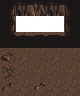
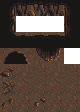
Procedural generation 3

diff --git a/game.js b/game.js
@@ -93,7 +93,29 @@ window.addEventListener("load",function() {
 		wall_down_left: { frames: [10], rate: 1, loop: true},
 		wall_down_right: { frames: [14], rate: 1, loop: true},
 		wall_left: { frames: [5], rate: 1, loop: true},
-		wall_right: { frames: [9], rate: 1, loop: true}
+		wall_right: { frames: [9], rate: 1, loop: true},
+		wall_hole_up_left: { frames: [15], rate: 1, loop: true},
+		wall_hole_up_right: { frames: [16], rate: 1, loop: true},
+		wall_hole_down_left: { frames: [17], rate: 1, loop: true},
+		wall_hole_down_right: { frames: [18], rate: 1, loop: true}
+	});
+
+		Q.animations('cave floor anim', {
+		floor1: { frames: [0], rate: 1, loop: true},
+		floor2: { frames: [1], rate: 1, loop: true},
+		floor3: { frames: [2], rate: 1, loop: true},
+		floor4: { frames: [3], rate: 1, loop: true},
+		floor5: { frames: [4], rate: 1, loop: true},
+		floor6: { frames: [5], rate: 1, loop: true},
+		floor7: { frames: [6], rate: 1, loop: true},
+		floor8: { frames: [7], rate: 1, loop: true},
+		floor9: { frames: [8], rate: 1, loop: true},
+		floor10: { frames: [9], rate: 1, loop: true},
+		floor11: { frames: [10], rate: 1, loop: true},
+		floor12: { frames: [11], rate: 1, loop: true},
+		floor13: { frames: [12], rate: 1, loop: true},
+		floor14: { frames: [13], rate: 1, loop: true},
+		floor15: { frames: [14], rate: 1, loop: true},
 	});
 
 	Q.animations('octorok anim', {
@@ -788,14 +810,35 @@ window.addEventListener("load",function() {
 		init: function(p) {
 			// You can call the parent's constructor with this._super(..)
 			this._super(p, {
-				sheet: "walls"
+				sheet: "walls",
+				sprite: "cave walls anim",
+				dir: ""
 			});
 
 			//this.add('2d, animation');
-			//this.add('animation');
-			//this.play("wall_up1");
+			this.add('animation');
+			this.play("wall_" + this.p.dir);
 
 			//this.on("hit",this,"collision");
+		}
+	});
+
+	Q.Sprite.extend("CaveFloor",{
+
+		// the init constructor is called on creation
+		init: function(p) {
+			// You can call the parent's constructor with this._super(..)
+			this._super(p, {
+				sheet: "floor",
+				sprite: "cave floor anim",
+				sensor: true,
+				collisionMask: Q.SPRITE_NONE,
+				type: Q.SPRITE_NONE
+			});
+
+			//this.add('2d, animation');
+			this.add('animation');
+			this.play("floor" + Math.floor((Math.random() * 15) + 1));
 		}
 	});
 
@@ -846,8 +889,10 @@ window.addEventListener("load",function() {
 
 	Q.scene("level2",function(stage) {
 		Q.stageTMX("level2.tmx",stage);
+		//Q.stageTMX("level3.tmx",stage);
 
-		var w = 40, h = 40;	//var w = 80, h = 40;
+		var w = 40, h = 40;
+		var wallScale = 2;
 		/* create a connected map where the player can reach all non-wall sections */
 		var map = new ROT.Map.Cellular(w, h, { connected: true });
 
@@ -867,8 +912,44 @@ window.addEventListener("load",function() {
 
 		for(var i = 0; i < map._map.length; i++) {
 			for(var j = 0; j < map._map[i].length; j++) {
+				var maxI = map._map.length-1;
 				if(map._map[i][j] == 0){	//its a wall
-					stage.insert(new Q.CaveWall({x: 16*i, y: 16*j}));
+					var maxJ = map._map[i].length-1;
+					var wallDir;
+					var isWall = true;
+
+					if(i!=0 && j!=0 && map._map[i][j-1]==1 && map._map[i-1][j]==1)
+						wallDir = "hole_up_left";
+					else if(i!=maxI && j!=maxJ && map._map[i][j+1]==1 && map._map[i+1][j]==1)
+						wallDir = "hole_down_right";
+					else if(i!=0 && j!=maxJ && map._map[i][j+1]==1 && map._map[i-1][j]==1)
+						wallDir = "hole_down_left";
+					else if(i!=maxI && j!=0 && map._map[i][j-1]==1 && map._map[i+1][j]==1)
+						wallDir = "hole_up_right";
+					else if(j!=maxJ && map._map[i][j+1]==1)
+						wallDir = "up1";
+					else if(j!=0 && map._map[i][j-1]==1)
+						wallDir = "down1";
+					else if(i!=0 && map._map[i-1][j]==1)
+						wallDir = "right";
+					else if(i!=maxI && map._map[i+1][j]==1)
+						wallDir = "left";
+					else if (i!=0 && j!=0 && map._map[i-1][j-1]==1)
+						wallDir = "down_right";
+					else if (i!=maxI && j!=maxJ && map._map[i+1][j+1]==1)
+						wallDir = "up_left";
+					else if (i!=0 && j!=maxJ && map._map[i-1][j+1]==1)
+						wallDir = "up_right";
+					else if (i!=maxI && j!=0 && map._map[i+1][j-1]==1)
+						wallDir = "down_left";
+					else
+						isWall = false;
+
+					if(isWall)
+						stage.insert(new Q.CaveWall({x: 16*i*wallScale, y: 16*j*wallScale, dir: wallDir, scale: wallScale}));
+				}
+				else { 	//its floor
+					stage.insert(new Q.CaveFloor({x: 16*i*wallScale, y: 16*j*wallScale, scale: wallScale}));
 				}
 			}
 		}
